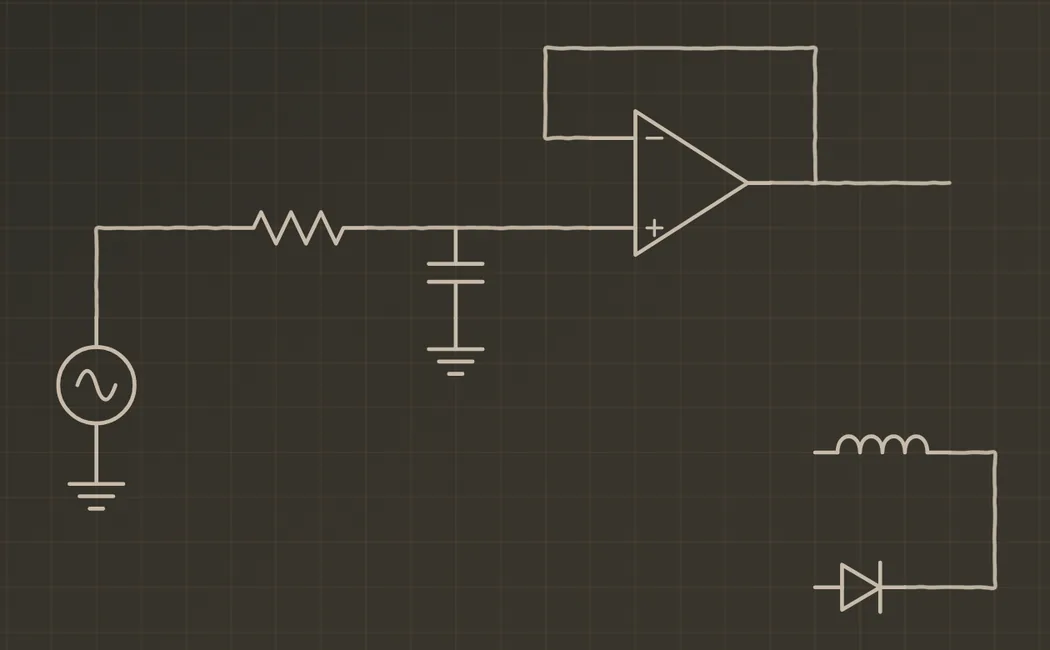
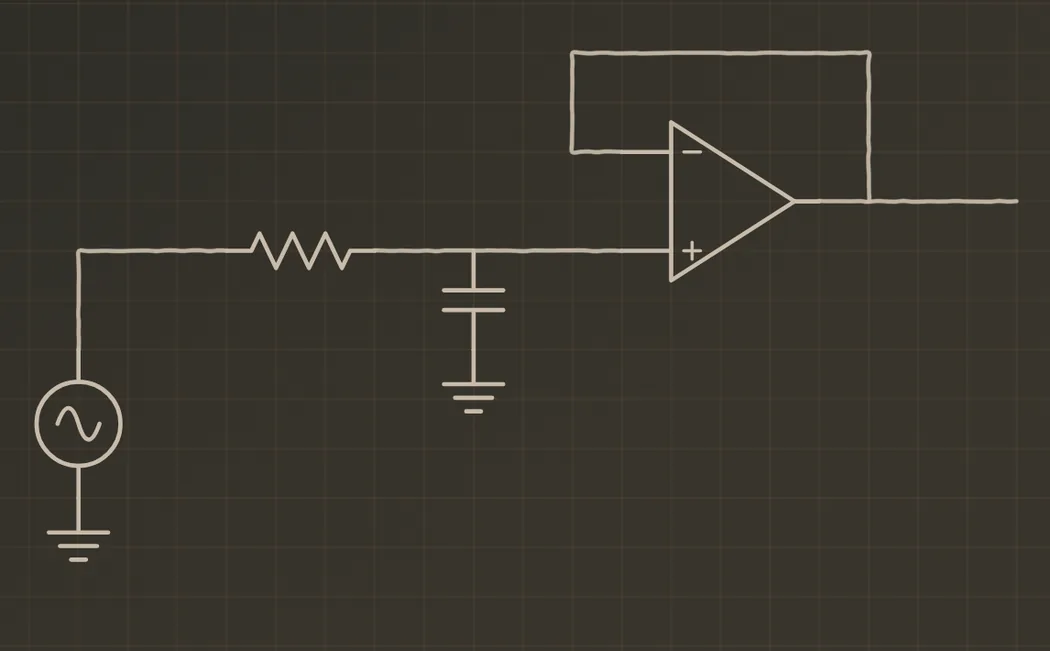
Room Notes: re-render the circuit capture with only the RC and follower circuit
The portfolio render harness had placed a stray inductor and diode, wired only
to each other, beside the circuit. Re-rendered from the build 33 code without
them; caption and alt now describe only what is shown.

diff --git a/projects/room-notes.html b/projects/room-notes.html
@@ -372,10 +372,10 @@
           </figure>
           <figure class="rn-shot" style="--ar: 1.6154" data-reveal>
             <button class="shot" type="button" data-zoom="../assets/room-notes/rn-circuit-rc-opamp.webp">
-              <img src="../assets/room-notes/rn-circuit-rc-opamp.webp" alt="Room Notes on an iPad, on grid paper: an AC source and ground, a resistor, a capacitor to ground and an op-amp wired as a follower, with an inductor and a diode wired together at the lower right. Every wire is pen ink." width="1050" height="650" loading="lazy" decoding="async" />
+              <img src="../assets/room-notes/rn-circuit-rc-opamp.webp" alt="Room Notes on an iPad, on grid paper: an AC source and ground, a resistor, a capacitor to ground and an op-amp wired as a follower. Every wire is pen ink." width="1050" height="651" loading="lazy" decoding="async" />
               <span class="zoom-hint" aria-hidden="true">View full size</span>
             </button>
-            <figcaption>An AC source, an RC low-pass and an op-amp follower placed from the tray on grid paper and wired in ink, with an inductor and a diode beside them.</figcaption>
+            <figcaption>An AC source, an RC low-pass and an op-amp follower placed from the tray on grid paper and wired in ink.</figcaption>
           </figure>
         </div>
         <div class="rn-b33-pair">
